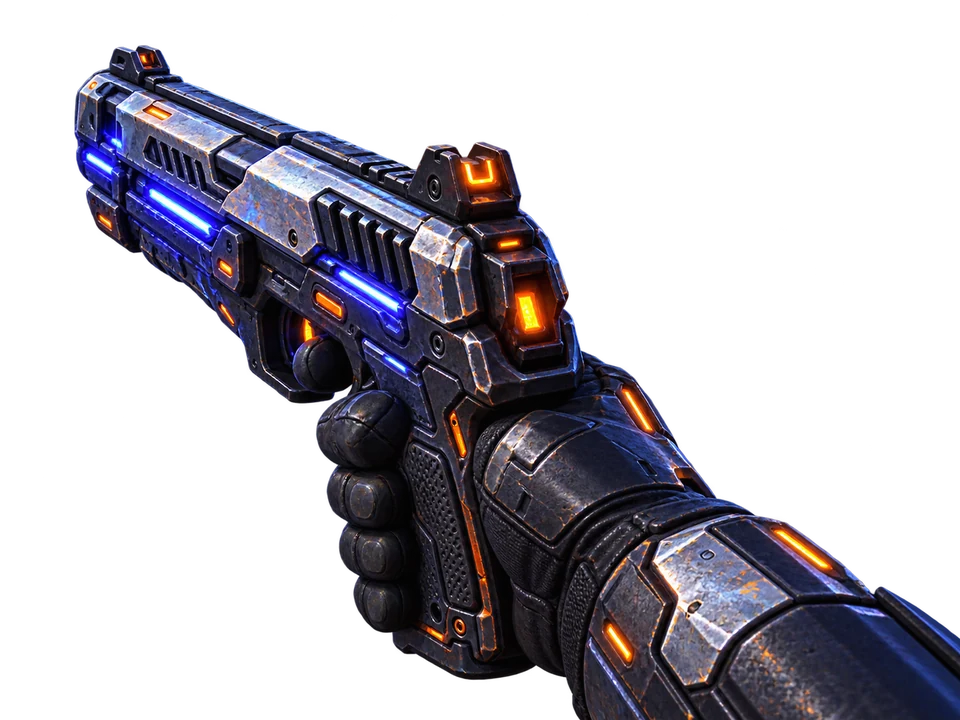
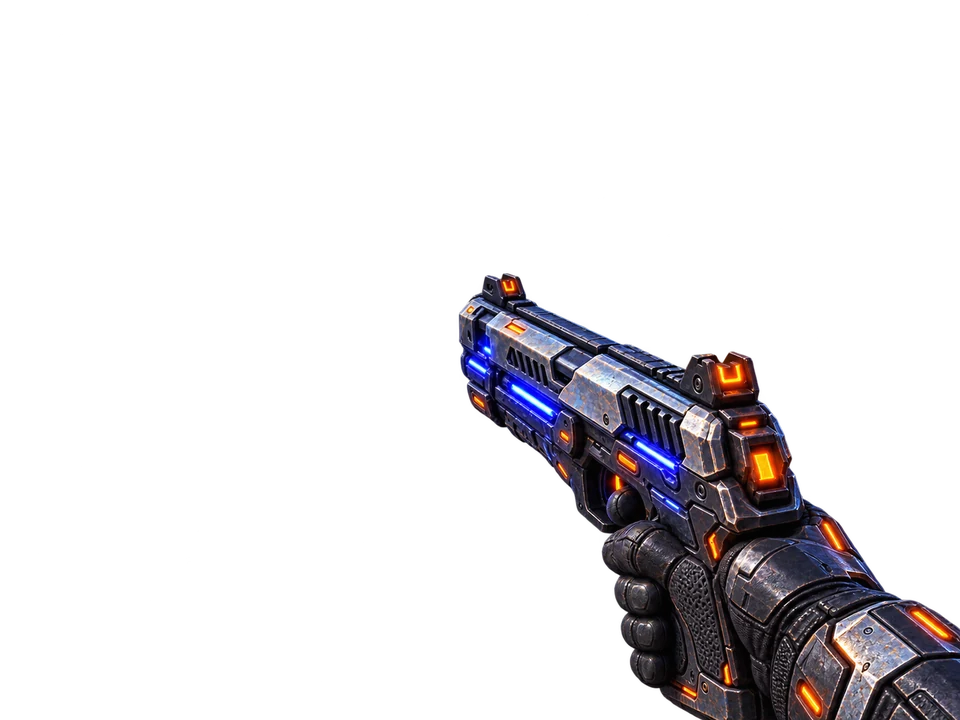
fix: shrink player weapon art and protect HUD safe zones

diff --git a/src/styles/game.css b/src/styles/game.css
@@ -3,13 +3,13 @@ body{background:#000;overflow:hidden;font-family:'Segoe UI',sans-serif;user-sele
 body.cursor-hidden,body.cursor-hidden *{cursor:none!important;}
 #canvas{display:block;width:100vw;height:100vh;}
 #ui{position:fixed;inset:0;pointer-events:none;z-index:10;}
-#fp-weapon-art-wrap{position:absolute;inset:0;overflow:hidden;pointer-events:none;z-index:4;opacity:0;visibility:hidden;transition:opacity .08s linear;contain:layout paint style;}
+#fp-weapon-art-wrap{position:absolute;inset:0;overflow:hidden;pointer-events:none;z-index:3;opacity:0;visibility:hidden;transition:opacity .08s linear;contain:layout paint style;}
 #fp-weapon-art-wrap.on.shown{opacity:1;visibility:visible;}
 #fp-weapon-art-wrap.scope-hidden{opacity:0;visibility:hidden;}
-#fp-weapon-art-stage{position:absolute;right:var(--fp-right,-5vw);bottom:var(--fp-bottom,-34vh);width:var(--fp-width,56vw);max-width:1120px;transform-origin:88% 84%;transform:translate3d(var(--fp-dx,0px),var(--fp-dy,0px),0) rotate(var(--fp-rot,0deg)) scale(var(--fp-scale,1));will-change:transform;filter:drop-shadow(0 18px 16px rgba(0,0,0,.48));}
+#fp-weapon-art-stage{position:absolute;right:var(--fp-right,-1vw);bottom:var(--fp-bottom,-1vh);width:var(--fp-width,48vw);max-width:980px;transform-origin:88% 84%;transform:translate3d(var(--fp-dx,0px),var(--fp-dy,0px),0) rotate(var(--fp-rot,0deg)) scale(var(--fp-scale,1));will-change:transform;filter:drop-shadow(0 18px 16px rgba(0,0,0,.48));}
 #fp-weapon-art{display:block;width:100%;height:auto;max-width:none;-webkit-user-drag:none;user-select:none;}
 #fp-weapon-flash{position:absolute;left:var(--fp-muzzle-x,6%);top:var(--fp-muzzle-y,20%);width:76px;height:28px;border-radius:50%;opacity:0;transform:translate(-88%,-50%) rotate(-8deg);transform-origin:88% 50%;background:radial-gradient(ellipse at 88% 50%,#fff 0 12%,#fff3ac 18%,#ffc34a 34%,#ff7928 52%,rgba(255,91,30,.25) 64%,transparent 76%);filter:drop-shadow(0 0 10px rgba(255,193,70,.9));mix-blend-mode:screen;will-change:opacity;}
-#xhair{position:absolute;top:50%;left:50%;transform:translate(-50%,-50%);width:48px;height:48px;--xh-gap:6px;transition:opacity .08s ease;}
+#xhair{position:absolute;top:50%;left:50%;transform:translate(-50%,-50%);width:48px;height:48px;--xh-gap:6px;transition:opacity .08s ease;z-index:24;}
 .xh-arm{position:absolute;background:rgba(255,255,255,.92);border-radius:2px;box-shadow:0 0 5px rgba(255,255,255,.24);}
 .xh-t,.xh-b{width:2px;height:9px;left:23px;}
 .xh-l,.xh-r{width:9px;height:2px;top:23px;}
@@ -68,18 +68,18 @@ body.cursor-hidden,body.cursor-hidden *{cursor:none!important;}
 #xp-lbl{display:inline-block;font-size:11px;color:#7eeaff;letter-spacing:2px;font-weight:900;margin-bottom:5px;padding:4px 9px;border-radius:9px;background:rgba(4,15,25,.78);border:1px solid rgba(70,210,255,.36);box-shadow:0 0 11px rgba(30,185,255,.12);}
 #xp-bar{width:230px;height:7px;background:rgba(0,0,0,.58);border-radius:4px;overflow:hidden;border:1px solid rgba(0,200,255,.4);box-shadow:0 0 8px rgba(0,190,255,.10);}
 #xp-fill{height:100%;background:linear-gradient(90deg,#0088ff,#00ffff);border-radius:4px;width:0%;}
-#hp-wrap{position:absolute;bottom:90px;left:50%;transform:translateX(-50%);text-align:center;}
+#hp-wrap{position:absolute;bottom:90px;left:50%;transform:translateX(-50%);text-align:center;z-index:24;}
 #hp-txt{font-size:12px;font-weight:700;letter-spacing:2px;margin-bottom:3px;color:#aaffaa;}
 #hp-bar{width:240px;height:13px;background:rgba(0,0,0,.55);border-radius:7px;overflow:hidden;border:1px solid rgba(255,255,255,.22);}
 #hp-fill{height:100%;border-radius:7px;transition:width .1s;}
 #armor-row{margin-top:3px;display:none;}
 #armor-bar{width:240px;height:5px;background:rgba(0,0,0,.4);border-radius:3px;overflow:hidden;border:1px solid rgba(80,180,255,.3);}
 #armor-fill{height:100%;background:linear-gradient(90deg,#44aaff,#aaddff);border-radius:3px;}
-#hud{position:absolute;bottom:18px;left:50%;transform:translateX(-50%);display:flex;gap:14px;}
+#hud{position:absolute;bottom:18px;left:50%;transform:translateX(-50%);display:flex;gap:14px;z-index:24;}
 .hb{background:rgba(0,0,0,.65);border:2px solid rgba(255,220,0,.4);border-radius:14px;padding:6px 14px;color:#fff;text-align:center;}
 .hl{font-size:9px;letter-spacing:2px;color:#ffd700;text-transform:uppercase;margin-bottom:2px;}
 .hv{font-size:22px;font-weight:900;}
-#whud{position:absolute;bottom:18px;right:18px;background:rgba(0,0,0,.65);border:2px solid rgba(255,220,0,.4);border-radius:14px;padding:8px 14px;color:#fff;text-align:center;min-width:110px;}
+#whud{position:absolute;bottom:18px;right:18px;background:rgba(0,0,0,.78);border:2px solid rgba(255,220,0,.52);border-radius:14px;padding:8px 14px;color:#fff;text-align:center;min-width:110px;z-index:24;box-shadow:0 8px 24px rgba(0,0,0,.34);}
 #wname{font-size:9px;letter-spacing:2px;color:#ffd700;text-transform:uppercase;margin-bottom:3px;}
 #wammo{font-size:20px;font-weight:900;}
 #wtot{font-size:10px;color:#aaa;margin-top:2px;}
@@ -93,7 +93,7 @@ body.cursor-hidden,body.cursor-hidden *{cursor:none!important;}
 #reload-track{width:96px;height:5px;background:rgba(0,0,0,.65);border-radius:3px;border:1px solid rgba(255,220,0,.45);}
 #reload-fill{height:100%;background:linear-gradient(90deg,#ffd700,#ffaa00);border-radius:3px;width:0%;}
 #reload-lbl{font-size:10px;color:#ffd700;letter-spacing:1px;margin-top:3px;font-weight:700;}
-#mines-panel{position:absolute;bottom:18px;left:18px;background:rgba(0,0,0,.65);border:2px solid rgba(255,100,0,.45);border-radius:14px;padding:8px 14px;color:#fff;text-align:center;display:none;}
+#mines-panel{position:absolute;bottom:18px;left:18px;background:rgba(0,0,0,.65);border:2px solid rgba(255,100,0,.45);border-radius:14px;padding:8px 14px;color:#fff;text-align:center;display:none;z-index:24;}
 #mine-lbl{font-size:9px;letter-spacing:2px;color:#ff8800;text-transform:uppercase;margin-bottom:3px;}
 #mine-cnt{font-size:18px;font-weight:900;color:#ff8800;}
 #score-pop{position:absolute;top:40%;left:50%;transform:translate(-50%,-50%);font-size:34px;font-weight:900;color:#ffd700;text-shadow:0 0 20px #ffa500;pointer-events:none;opacity:0;transition:opacity .3s,top .3s;}
@@ -257,7 +257,7 @@ body.cursor-hidden,body.cursor-hidden *{cursor:none!important;}
 #hp-txt::before{
   content:'';
   width:19px;height:19px;display:inline-block;flex:0 0 auto;
-  background:url('../../assets/ui/health.svg?v=bf2060143b75f79e') center/contain no-repeat;
+  background:url('../../assets/ui/health.svg?v=67fbb657dd688977') center/contain no-repeat;
   filter:drop-shadow(0 0 6px rgba(255,55,80,.55));
 }
 #armor-row{position:relative;}
@@ -265,14 +265,14 @@ body.cursor-hidden,body.cursor-hidden *{cursor:none!important;}
   content:'';
   position:absolute;left:-27px;top:50%;transform:translateY(-50%);
   width:20px;height:20px;
-  background:url('../../assets/ui/armor.svg?v=bf2060143b75f79e') center/contain no-repeat;
+  background:url('../../assets/ui/armor.svg?v=67fbb657dd688977') center/contain no-repeat;
   filter:drop-shadow(0 0 6px rgba(70,170,255,.55));
 }
 #xp-wrap::before{
   content:'';
   position:absolute;left:-30px;top:50%;transform:translateY(-50%);
   width:22px;height:22px;
-  background:url('../../assets/ui/xp.svg?v=bf2060143b75f79e') center/contain no-repeat;
+  background:url('../../assets/ui/xp.svg?v=67fbb657dd688977') center/contain no-repeat;
   filter:drop-shadow(0 0 7px rgba(255,205,45,.55));
 }
 @media (max-width:900px){
@@ -573,22 +573,22 @@ body.cursor-hidden,body.cursor-hidden *{cursor:none!important;}
    of presentation art during the first menu click. Persistent Three.js/WebGL
    surfaces never use these images, preserving the uCoz anti-black-quad invariant. */
 .generated-art-enabled #loading{
-  background:linear-gradient(180deg,rgba(0,6,15,.48),rgba(0,0,0,.76)),url('../../assets/ui/backgrounds/loading-bg-arena-01.jpg?v=bf2060143b75f79e') center/cover no-repeat,radial-gradient(circle at 50% 35%,#0b2038 0,#03070d 55%,#000 100%);
+  background:linear-gradient(180deg,rgba(0,6,15,.48),rgba(0,0,0,.76)),url('../../assets/ui/backgrounds/loading-bg-arena-01.jpg?v=67fbb657dd688977') center/cover no-repeat,radial-gradient(circle at 50% 35%,#0b2038 0,#03070d 55%,#000 100%);
 }
 .generated-art-enabled #menu{
-  background:linear-gradient(180deg,rgba(1,5,12,.24),rgba(1,4,10,.70)),url('../../assets/ui/backgrounds/menu-bg-arena-01.jpg?v=bf2060143b75f79e') center/cover no-repeat,radial-gradient(circle at 50% 30%,#12233d 0,#050912 48%,#000 100%);
+  background:linear-gradient(180deg,rgba(1,5,12,.24),rgba(1,4,10,.70)),url('../../assets/ui/backgrounds/menu-bg-arena-01.jpg?v=67fbb657dd688977') center/cover no-repeat,radial-gradient(circle at 50% 30%,#12233d 0,#050912 48%,#000 100%);
 }
-.generated-art-enabled #hp-txt::before{background:url('../../assets/ui/health-icon-tech-01.png?v=bf2060143b75f79e') center/contain no-repeat;}
-.generated-art-enabled #armor-row::before{background:url('../../assets/ui/armor-icon-01.png?v=bf2060143b75f79e') center/contain no-repeat;}
-.generated-art-enabled #xp-wrap::before{background:url('../../assets/ui/xp-star-01.png?v=bf2060143b75f79e') center/contain no-repeat;}
+.generated-art-enabled #hp-txt::before{background:url('../../assets/ui/health-icon-tech-01.png?v=67fbb657dd688977') center/contain no-repeat;}
+.generated-art-enabled #armor-row::before{background:url('../../assets/ui/armor-icon-01.png?v=67fbb657dd688977') center/contain no-repeat;}
+.generated-art-enabled #xp-wrap::before{background:url('../../assets/ui/xp-star-01.png?v=67fbb657dd688977') center/contain no-repeat;}
 .generated-art-enabled #restartBtn::before{
   content:'';display:inline-block;width:24px;height:24px;margin-right:9px;vertical-align:-7px;border-radius:6px;
-  background:url('../../assets/environment/hazard-panel-01.jpg?v=bf2060143b75f79e') center/cover no-repeat,linear-gradient(135deg,#ff9b18,#2c1600);
+  background:url('../../assets/environment/hazard-panel-01.jpg?v=67fbb657dd688977') center/cover no-repeat,linear-gradient(135deg,#ff9b18,#2c1600);
   box-shadow:0 0 10px rgba(255,137,25,.32);pointer-events:none;
 }
 .generated-art-enabled #settings-title::before{
   content:'';display:inline-block;width:34px;height:34px;margin-right:10px;vertical-align:-10px;border-radius:8px;
-  background:url('../../assets/environment/terminal-screen-01.jpg?v=bf2060143b75f79e') center/cover no-repeat,linear-gradient(135deg,#063461,#05101b);
+  background:url('../../assets/environment/terminal-screen-01.jpg?v=67fbb657dd688977') center/cover no-repeat,linear-gradient(135deg,#063461,#05101b);
   box-shadow:0 0 12px rgba(40,190,255,.30);pointer-events:none;
 }
 
@@ -606,32 +606,32 @@ body.cursor-hidden,body.cursor-hidden *{cursor:none!important;}
   content:'';display:inline-block;flex:0 0 auto;background-position:center;background-repeat:no-repeat;background-size:contain;
 }
 .generated-art-enabled #tb-ally::before{
-  width:24px;height:24px;background-image:url('../../assets/ui/teams/blue-team-emblem-01.png?v=bf2060143b75f79e');
+  width:24px;height:24px;background-image:url('../../assets/ui/teams/blue-team-emblem-01.png?v=67fbb657dd688977');
   filter:drop-shadow(0 0 6px rgba(60,190,255,.42));
 }
 .generated-art-enabled #tb-enemy::before{
-  width:24px;height:24px;background-image:url('../../assets/ui/teams/red-team-emblem-01.png?v=bf2060143b75f79e');
+  width:24px;height:24px;background-image:url('../../assets/ui/teams/red-team-emblem-01.png?v=67fbb657dd688977');
   filter:drop-shadow(0 0 6px rgba(255,70,85,.40));
 }
 .generated-art-enabled #wammo::before{
   width:24px;height:24px;margin-right:5px;vertical-align:-6px;
-  background-image:url('../../assets/ui/icons/ammo-tech-01.png?v=bf2060143b75f79e');
+  background-image:url('../../assets/ui/icons/ammo-tech-01.png?v=67fbb657dd688977');
   filter:drop-shadow(0 0 6px rgba(70,205,255,.30));
 }
 .generated-art-enabled #reload-lbl::before{
   width:20px;height:20px;margin-right:4px;vertical-align:-6px;
-  background-image:url('../../assets/ui/perks/reload-tech-01.png?v=bf2060143b75f79e');
+  background-image:url('../../assets/ui/perks/reload-tech-01.png?v=67fbb657dd688977');
   filter:drop-shadow(0 0 6px rgba(255,190,45,.30));
 }
 .generated-art-enabled #frontline-art{
   display:inline-block;width:24px;height:24px;margin-right:1px;flex:0 0 auto;
-  background:url('../../assets/ui/objective/frontline-capture-tech-01.webp?v=bf2060143b75f79e') center/contain no-repeat;
+  background:url('../../assets/ui/objective/frontline-capture-tech-01.webp?v=67fbb657dd688977') center/contain no-repeat;
   filter:drop-shadow(0 0 7px rgba(80,210,255,.38));
 }
 .generated-art-enabled #menu .hints::after{
   width:42px;height:42px;margin:7px auto 0;
-  background-image:url('../../assets/ui/pickups/weapon-crate-tech-01.png?v=bf2060143b75f79e');
+  background-image:url('../../assets/ui/pickups/weapon-crate-tech-01.png?v=67fbb657dd688977');
   filter:drop-shadow(0 0 9px rgba(70,190,255,.24));
 }
 
-@media(max-width:760px){#fp-weapon-art-stage{width:min(72vw,var(--fp-width,58vw));right:var(--fp-right,-5vw);bottom:var(--fp-bottom,-9vh);}}
+@media(max-width:760px){#fp-weapon-art-stage{width:min(58vw,var(--fp-width,48vw));max-width:560px;right:var(--fp-right,-1vw);bottom:var(--fp-bottom,-1vh);}}

diff --git a/src/weapons/system.js b/src/weapons/system.js
@@ -477,14 +477,14 @@ const FP_MODEL_TUNING={
   sniper:{scale:.86,pos:[.00,-.015,.065],rot:[-.015,.00,.00]}
 };
 const FP_GENERATED_ART_TUNING=Object.freeze({
-  // V2 renders already contain the final FPS tilt and baked player hands.
-  // Keep the image mostly inside the lower-right quadrant instead of poster-scaling it.
-  pistol:{width:'46vw',right:'-2vw',bottom:'-8vh',muzzleX:'8%',muzzleY:'13%'},
-  shotgun:{width:'58vw',right:'-4vw',bottom:'-8vh',muzzleX:'4%',muzzleY:'9%'},
-  rifle:{width:'59vw',right:'-5vw',bottom:'-10vh',muzzleX:'5%',muzzleY:'12%'},
-  rocket:{width:'57vw',right:'-4vw',bottom:'-8vh',muzzleX:'4%',muzzleY:'10%'},
-  plasma:{width:'58vw',right:'-4vw',bottom:'-9vh',muzzleX:'4%',muzzleY:'11%'},
-  sniper:{width:'63vw',right:'-7vw',bottom:'-11vh',muzzleX:'2%',muzzleY:'10%'}
+  // V3 assets contain the final FPS tilt, baked hands and intentional transparent headroom.
+  // Widths are tuned against HUD safe zones so the visible silhouette stays in the lower-right sector.
+  pistol:{width:'54vw',right:'-1vw',bottom:'-1vh',muzzleX:'49%',muzzleY:'38%'},
+  shotgun:{width:'46vw',right:'-1vw',bottom:'-1vh',muzzleX:'28%',muzzleY:'39%'},
+  rifle:{width:'48vw',right:'-1.5vw',bottom:'-2vh',muzzleX:'26%',muzzleY:'37%'},
+  rocket:{width:'46vw',right:'-1vw',bottom:'-1vh',muzzleX:'22%',muzzleY:'31%'},
+  plasma:{width:'46vw',right:'-1vw',bottom:'-1vh',muzzleX:'22%',muzzleY:'34%'},
+  sniper:{width:'54vw',right:'-2vw',bottom:'-2vh',muzzleX:'33%',muzzleY:'38%'}
 });
 function setProceduralFirstPersonRigVisible(visible){
   for(const child of gunGrp.children)child.visible=visible;
@@ -539,13 +539,16 @@ function syncGeneratedFirstPersonWeaponArt(visible=true){
   const show=Boolean(visible);
   wrap.classList.toggle('shown',show);wrap.classList.toggle('scope-hidden',!visible);
   if(!show){if(flash)flash.style.opacity='0';return;}
-  const dx=(gunGrp.position.x-gunBasePos.x)*310;
-  const dy=-(gunGrp.position.y-gunBasePos.y)*270;
-  const rot=gunGrp.rotation.z*40-gunGrp.rotation.y*9+gunGrp.rotation.x*4;
+  // Preserve the baked first-person angle: gameplay sway/recoil may move the art,
+  // but must not drag it across the center-bottom HUD or rotate it into a poster-like pose.
+  const dx=Math.max(-14,Math.min(14,(gunGrp.position.x-gunBasePos.x)*220));
+  const dy=Math.max(-10,Math.min(16,-(gunGrp.position.y-gunBasePos.y)*190));
+  const rawRot=gunGrp.rotation.z*16-gunGrp.rotation.y*3+gunGrp.rotation.x*2;
+  const rot=Math.max(-1.6,Math.min(1.6,rawRot));
   stage.style.setProperty('--fp-dx',dx.toFixed(1)+'px');
   stage.style.setProperty('--fp-dy',dy.toFixed(1)+'px');
   stage.style.setProperty('--fp-rot',rot.toFixed(2)+'deg');
-  stage.style.setProperty('--fp-scale',(1-Math.min(.045,Math.abs(gunGrp.rotation.x)*.02)).toFixed(3));
+  stage.style.setProperty('--fp-scale',(1-Math.min(.025,Math.abs(gunGrp.rotation.x)*.01)).toFixed(3));
   if(flash)flash.style.opacity=visible&&beamT>0?String(Math.min(1,beamT/.065)):'0';
 }
 function buildGun(w){

diff --git a/index.html b/index.html
@@ -3,8 +3,8 @@
 <head>
 <meta charset="UTF-8">
 <meta name="application-version" content="23.9">
-<meta name="application-build" content="bf2060143b75f79e">
-<title>⚡ ZAP ZONE v23.9</title><link id="game-styles" rel="stylesheet" href="src/styles/game.css?v=bf2060143b75f79e">
+<meta name="application-build" content="67fbb657dd688977">
+<title>⚡ ZAP ZONE v23.9</title><link id="game-styles" rel="stylesheet" href="src/styles/game.css?v=67fbb657dd688977">
 
 </head>
 <body>

diff --git a/docs/ASSETS.md b/docs/ASSETS.md
@@ -89,7 +89,7 @@ Generated PNG/WebP/JPEG presentation assets **не использовать** к
 1. `baked-hands` — изображение уже содержит финальные руки/предплечья; при успешной загрузке скрывается **весь procedural first-person rig** (weapon body + procedural hands), иначе появятся двойные/блочные руки;
 2. `weapon-only` — изображение не содержит рук; procedural hands могут остаться только после отдельной проверки совпадения grip/scale/perspective.
 
-Текущий pack pistol/shotgun/rifle/plasma/rocket/sniper — **baked-hands**.
+Текущий pack pistol/shotgun/rifle/plasma/rocket/sniper — **baked-hands**. V3 дополнительно использует intentional transparent headroom/left-space, уменьшенный runtime silhouette и HUD-safe positioning.
 
 Runtime contract:
 - runtime derivative: прозрачный WebP в `assets/ui/weapons/fp/**`, сейчас 960×720 и <=250 KiB;
@@ -105,8 +105,15 @@ Runtime contract:
 - сравнить с утверждённым reference montage, а не только с соседними generated картинками;
 - проверить 16:9 desktop screenshot: оружие визуально сидит в нижнем правом секторе, а muzzle уходит к левому/верхнему направлению;
 - руки анатомически держат grip/fore-end, нет второго procedural комплекта рук;
+- generated canvas должен сохранять осмысленное прозрачное пространство слева/сверху: tight crop вокруг оружия запрещён, потому что он заставляет раздувать poster-scale в runtime;
 - weapon silhouette не занимает чрезмерно весь экран и не закрывает HUD/reticle;
+- в idle-состоянии видимая часть оружия должна оставаться в правом секторе экрана: ориентир — левый край основного силуэта не левее ~58% viewport на desktop 16:9;
+- центральная safe-zone reticle и нижняя центральная safe-zone HP/Score/Kills не должны пересекаться основным силуэтом оружия;
+- `#hp-wrap`, `#hud`, `#whud` и reticle всегда имеют stacking priority выше decorative weapon art; это страховка, а не замена правильной композиции;
+- right-bottom weapon HUD может находиться поверх силуэта только как читаемый HUD-слой; generated art не должен визуально уничтожать его контраст;
 - отдельные `width/right/bottom/muzzleX/muzzleY` tuning значения задаются по weapon key, а не одной глобальной трансформацией;
+- dynamic sway/recoil для raster weapon art должен быть ограничен clamp-ами: baked first-person angle не вращать на большие углы и не таскать через HUD;
+- desktop runtime stage ограничивать по абсолютному размеру (сейчас max 980 px), чтобы ultra-wide/high-DPI viewport не превращал оружие в огромный постер;
 - если визуальная посадка не проверена screenshot-ом, итог маркировать `NOT VERIFIED: visual framing`, даже если CI зелёный.
 
 ## 6. Catalog и cache identity

diff --git a/README.md b/README.md
@@ -33,7 +33,7 @@
 - Отдельных ящиков с универсальными патронами больше нет; weapon pickups после подбора появляются заново в другой части карты.
 - Единый factory 3D-моделей оружия для игрока, AI и world pickups.
 - Все 9 first-person моделей получили отдельный premium-pass: более сложные силуэты, rails/optic/muzzle/vent детали, улучшенные руки и индивидуальные SVG tech + skin панели в `assets/weapons/fp/`.
-- Для 6 основных стволов игрока (пистолет, дробовик, штурмовая винтовка, ракетница, плазма, снайперская винтовка) используется V2 generated FPS pack с правильной first-person посадкой и встроенными руками: DOM presentation работает на HTTP/HTTPS и `file://`, лениво загружается после старта матча, синхронизируется с recoil/reload/equip/sprint; при успехе скрывает весь локальный procedural first-person rig, при ошибке полностью возвращает fallback; боты и world pickups не затронуты.
+- Для 6 основных стволов игрока используется V3 generated FPS pack: более компактная first-person композиция с прозрачным headroom, baked-hands и HUD-safe placement. DOM presentation работает на HTTP/HTTPS и `file://`, лениво загружается после старта матча, имеет ограниченный sway/recoil, не должен заходить в центральную зону HP/Score/Kills; при успехе скрывает весь локальный procedural first-person rig, при ошибке полностью возвращает fallback; боты и world pickups не затронуты.
 - Реальные SVG assets оружия в `assets/weapons/`.
 - Новый asset catalog: `src/assets/catalog.js`.
 - Красивые world pickups оружия с 3D-моделью и соответствующей SVG-иконкой; аптечки остаются отдельными pickups.

diff --git a/CHANGELOG.md b/CHANGELOG.md
@@ -3,6 +3,10 @@
 ## Unreleased — 2026-09-25
 
 ### Generated First-Person Weapon Pack — player-held firearms
+- V3 pack перегенерирован с дополнительным transparent headroom/left-space и более компактной FPS-композицией: оружие занимает меньшую долю viewport и сохраняет нормальный baked first-person угол;
+- per-weapon runtime tuning уменьшен и сдвинут в lower-right safe sector; muzzle anchors пересчитаны под новую композицию;
+- sway/recoil/rotation raster overlay ограничены clamp-ами, чтобы оружие не уезжало в центр, HP, Score/Kills и reticle;
+- critical HUD слои (reticle, HP, Score/Kills, weapon HUD) получили явный stacking priority выше decorative weapon art; weapon stage ограничен max 980 px;
 - V2 pack перегенерирован по утверждённому reference montage: first-person угол теперь задаёт оружие из нижнего правого сектора влево/вверх, с корректно встроенными руками/предплечьями вместо showroom/profile-композиции;
 - 6 runtime WebP заменены на 960×720 alpha derivatives (pistol, shotgun, rifle, rocket, plasma, sniper), каждый ограничен 250 KiB;
 - добавлены 6 оптимизированных прозрачных WebP для оружия, которое видит и держит локальный игрок: pistol, shotgun, rifle, rocket, plasma и sniper;

diff --git a/assets/README.md b/assets/README.md
@@ -27,3 +27,5 @@
 7. For manual static/uCoz publication upload `version.json` last.
 8. FPS weapon generation must match the approved first-person reference angle/framing; a side-profile/poster weapon is not an acceptable replacement even if the art itself is high quality.
 9. Current FPS runtime derivative target: 960×720 transparent WebP, <=250 KiB, per-weapon framing/muzzle tuning, visual screenshot check before calling the integration complete.
+10. FPS weapon canvas keeps transparent headroom/left-space; do not tight-crop. Desktop visible silhouette should stay in the lower-right safe sector and away from reticle + center-bottom HP/Score/Kills.
+11. Decorative weapon art stays below critical HUD layers; clamp raster sway/rotation so recoil cannot drag the baked image across HUD safe zones.
